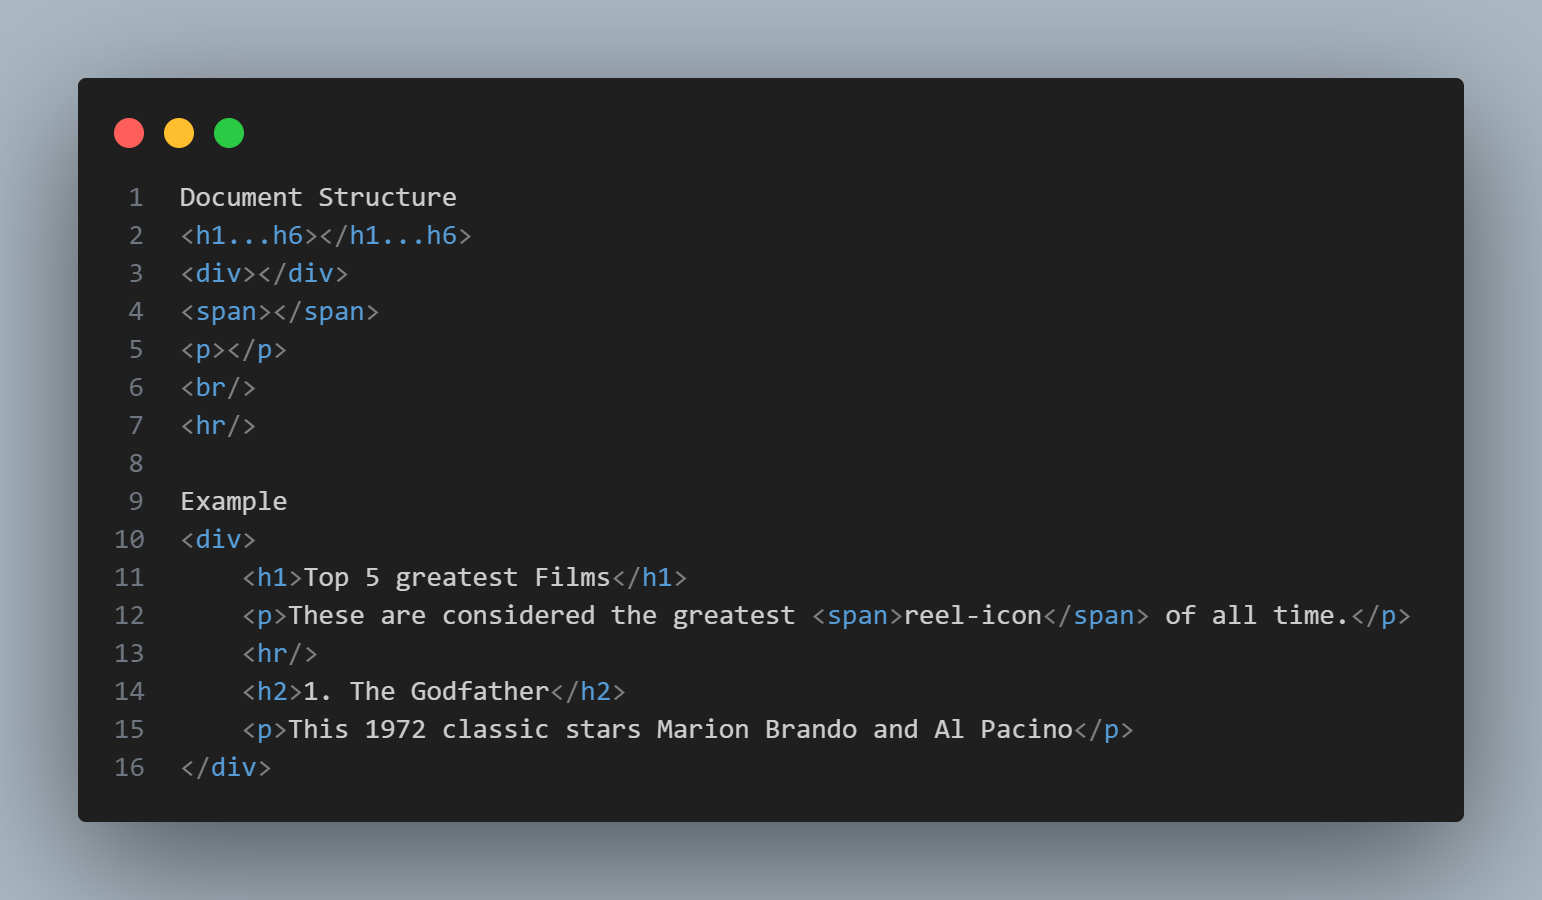
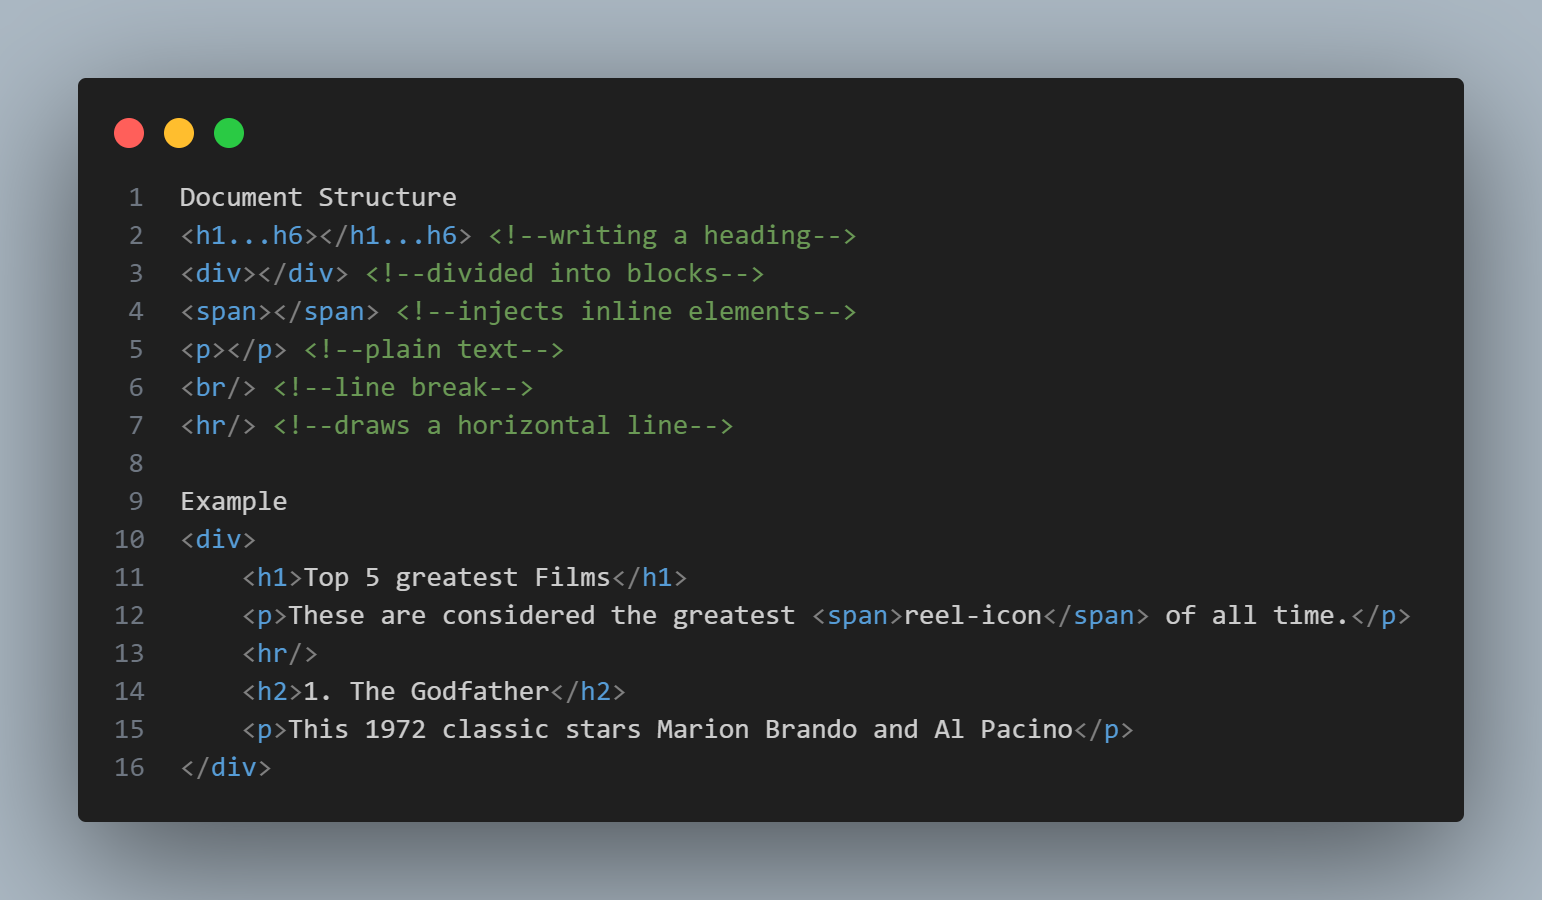
add comment's and new sh

diff --git a/1. HTML/TheCompletHTMLCheatSheet.html b/1. HTML/TheCompletHTMLCheatSheet.html
@@ -38,12 +38,12 @@ Example
 
 
 Document Structure
-<h1...h6></h1...h6>
-<div></div>
-<span></span>
-<p></p>
-<br/>
-<hr/>
+<h1...h6></h1...h6> <!--writing a heading-->
+<div></div> <!--divided into blocks-->
+<span></span> <!--injects inline elements-->
+<p></p> <!--plain text-->
+<br/> <!--line break-->
+<hr/> <!--draws a horizontal line-->
 
 Example
 <div>
@@ -56,21 +56,21 @@ Example
 
 
 Text Formatting
-<strong></strong>
-<b></b>
-<em></em>
-<i></i>
-<cite></cite>
-<del></del>
+<strong></strong> <!--make text bold.-->
+<b></b> <!--for bold text-->
+<em></em> <!--make text italics-->
+<i></i> <!--display text italics-->
+<cite></cite> <!--author of a quote-->
+<del></del> <!--pre formatted monospace text laid out with whitespace inside the element-->
 <ins></ins>
-<blockquote></blockquote>
-<q></q>
+<blockquote></blockquote> <!--tandem with the cite tag-->
+<q></q> <!--short quotes-->
 <abbr title=""></abbr>
-<address></address>
+<address></address> <!--author contact details-->
 <dfn></dfn>
 <code></code>
-<sub></sub>
-<sup></sup>
+<sub></sub> <!--subscript-->
+<sup></sup> <!--superscript-->
 <small></small>
 
 Example
@@ -79,7 +79,6 @@ Example
 <blockquote>
     Anyone who has never made a mistake has never tried anything new. <cite>-Albert Einstein</cite>
 </blockquote>
-
 <pre>
     Some pre-Formatted text
 </pre>
@@ -110,3 +109,4 @@ coords="" <!--vital information of the shape-->
 Example
 <img src="planets.gif" width="100px" height="100px" alt="planets" usemap="#planetmap">
 <map name="planting"><area shape="rect" coords="0,0,60,100" href="sun.htm" alt="Sun"></map>
+
